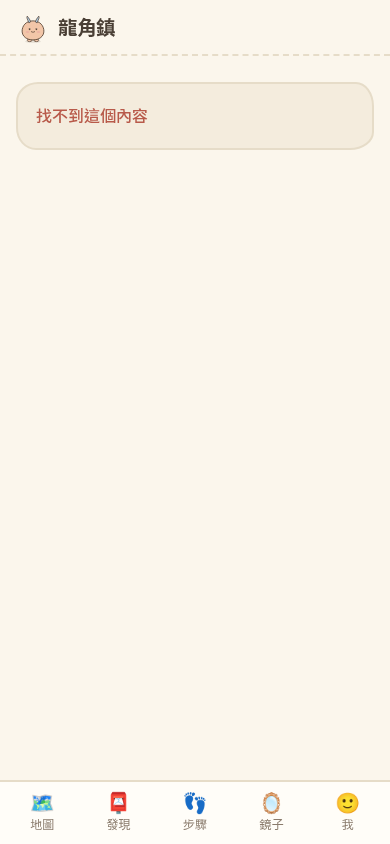
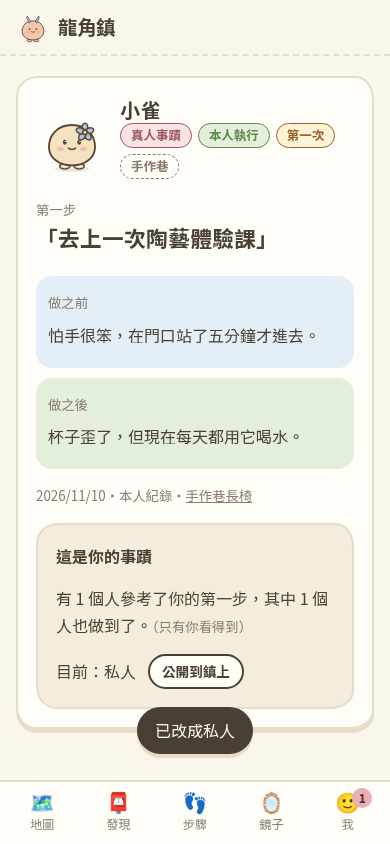
fix(P1-2 UAT-03): reveal and highlight the completed step with its deed link

diff --git a/apps/web/src/pages/Steps.tsx b/apps/web/src/pages/Steps.tsx
@@ -1,4 +1,4 @@
-import { useState, type FormEvent } from "react";
+import { useEffect, useRef, useState, type FormEvent } from "react";
 import { Link } from "react-router-dom";
 import { Empty, ErrorBox, ExecutorTag, Loading } from "../components/Bits";
 import { api } from "../lib/api";
@@ -79,9 +79,11 @@ function CompleteForm({ step, onDone }: { step: Step; onDone(): void }) {
   );
 }
 
-function StepItem({ step, reload }: { step: Step; reload(): void }) {
+function StepItem({ step, reload, onCompleted, highlighted }: { step: Step; reload(): void; onCompleted(id: string): void; highlighted: boolean }) {
   const { toast, reload: reloadMe } = useSession();
   const [completing, setCompleting] = useState(false);
+  const completedCard = useRef<HTMLElement>(null);
+  useEffect(() => { if (highlighted) completedCard.current?.scrollIntoView({ block: "start" }); }, [highlighted]);
   const act = async (path: string, msg: string) => {
     await api(`/api/first-steps/${step.id}/${path}`, { method: "POST" });
     toast(msg);
@@ -91,7 +93,8 @@ function StepItem({ step, reload }: { step: Step; reload(): void }) {
   const when = step.session?.startsAt ?? step.plannedAt;
   return (
     <li>
-      <article className="panel stack" style={{ gap: 10 }}>
+      <article ref={completedCard} className={`panel stack ${highlighted ? "just-completed" : ""}`} style={{ gap: 10 }}>
+        {highlighted && <strong className="notice">剛剛完成的這一步</strong>}
         <div className="row wrap" style={{ gap: 6 }}>
           <ExecutorTag executor={step.executor} />
           {step.proposedBy === "ai" && <span className="tag tag-ai">AI 建議</span>}
@@ -127,7 +130,7 @@ function StepItem({ step, reload }: { step: Step; reload(): void }) {
           {step.status === "confirmed" && <button className="btn ghost small" onClick={() => act("drop", "先放下也沒關係")}>先放下</button>}
           {step.status === "done" && step.deedId && <Link className="btn small" to={`/deeds/${step.deedId}`}>看看這個事蹟</Link>}
         </div>
-        {completing && <CompleteForm step={step} onDone={() => { setCompleting(false); toast("太好了！這成為你的新事蹟"); reload(); }} />}
+        {completing && <CompleteForm step={step} onDone={() => { setCompleting(false); toast("太好了！這成為你的新事蹟"); onCompleted(step.id); void reloadMe(); }} />}
       </article>
     </li>
   );
@@ -135,6 +138,7 @@ function StepItem({ step, reload }: { step: Step; reload(): void }) {
 
 export function StepsPage() {
   const [tab, setTab] = useState<Tab>("confirmed");
+  const [completedId, setCompletedId] = useState<string | null>(null);
   const { data, error, loading, reload } = useFetch<Step[]>("/api/first-steps");
   const list = (data ?? []).filter((s) => s.status === tab);
   const count = (t: Tab) => (data ?? []).filter((s) => s.status === t).length;
@@ -152,7 +156,7 @@ export function StepsPage() {
         ))}
       </div>
       <ErrorBox error={error} />
-      {loading && !data ? <Loading /> : list.length ? <ul className="plain">{list.map((s) => <StepItem key={s.id} step={s} reload={reload} />)}</ul> : (
+      {loading && !data ? <Loading /> : list.length ? <ul className="plain">{list.map((s) => <StepItem key={s.id} step={s} reload={reload} highlighted={s.id === completedId} onCompleted={(id) => { setCompletedId(id); setTab("done"); reload(); }} />)}</ul> : (
         <Empty>
           {tab === "draft" ? "AI 角色還沒有建議。" : tab === "confirmed" ? <>沒有進行中的步驟。去<Link to="/">地圖</Link>看看大家的第一步吧。</> : "還沒有完成的步驟。每一步都可以很小。"}
         </Empty>

diff --git a/e2e/p1-2.spec.ts b/e2e/p1-2.spec.ts
@@ -1,0 +1,20 @@
+import { expect } from "@playwright/test";
+import { test } from "./helpers";
+import { evidence, json } from "./helpers";
+
+test("UAT-03 P1-2 完成後立刻看得到剛完成的步驟與事蹟", async ({ page }) => {
+  await json(page.request.post("/api/auth/dev-login", { data: { email: "complete@e2e.test" } }));
+  await json(page.request.post("/api/first-steps", { data: { executor: "self", text: "第一次試著唱一首歌" } }));
+  await page.goto("/steps");
+  await page.getByRole("button", { name: "我做到了", exact: true }).click();
+  await page.getByRole("button", { name: "完成", exact: true }).click();
+  await expect(page.getByRole("heading", { name: "「第一次試著唱一首歌」" })).toBeVisible({ timeout: 3000 });
+  const link = page.getByRole("link", { name: "看看這個事蹟" });
+  await expect(link).toBeVisible({ timeout: 3000 });
+  await expect(link).toBeInViewport();
+  await expect(page.getByRole("tab", { name: /完成了/ })).toHaveAttribute("aria-selected", "true");
+  await evidence(page, "UAT-03-completed-step");
+  await link.click();
+  await expect(page).toHaveURL(/\/deeds\/deed_/);
+  await expect(page.getByRole("heading", { name: "「第一次試著唱一首歌」" })).toBeVisible();
+});

diff --git a/apps/web/src/styles.css b/apps/web/src/styles.css
@@ -224,3 +224,5 @@ table { width: 100%; border-collapse: collapse; }
 td, th { text-align: left; padding: 6px 8px; border-bottom: 1px dashed var(--line); vertical-align: top; }
 .toast { position: fixed; left: 50%; bottom: 90px; transform: translateX(-50%); background: var(--ink); color: var(--paper); padding: 10px 18px; border-radius: 999px; z-index: 50; box-shadow: var(--shadow); }
 .sr-only { position: absolute; width: 1px; height: 1px; overflow: hidden; clip: rect(0 0 0 0); white-space: nowrap; }
+
+.just-completed { border-color: var(--leaf); scroll-margin-top: 84px; }

diff --git a/docs/uat/UAT-RESULTS.md b/docs/uat/UAT-RESULTS.md
@@ -11,3 +11,5 @@
 - 2026-11-10 00:41：P2-7 / UAT-01、12、13：測試基礎已完成；原人物情境桌面＋手機 6/6 pass，新手閉環因 P2-2/P2-3 暫 fixme 2；基準單元 100/100、typecheck 0 錯誤。證據 evidence/{desktop,mobile}-{leo,mia,xiaoan}-*.png；p2-7-e2e.log。
 
 - 2026-11-10 00:53：P1-1 / UAT-02 已修：config 未到不顯示 Google；未設定 client 導回中文說明且保留 next。TDD：後端 red 1/12、閃現 red 1 按鈕→green；雙裝置 E2E 2/2、全單元 101/101。證據 evidence/*-UAT-02-google-unavailable.png、p1-1-{red,green}-*.log。P2-7 commits b3d7f01、6186d19。
+
+- 2026-11-10 00:54：P1-2 / UAT-03 已修：完成後切完成了分頁、標記並捲到剛完成項目，保留看看這個事蹟。TDD red 兩裝置連結不存在→green；完成回歸＋原 Mia 雙裝置 4/4、全單元 101/101。證據 evidence/*-UAT-03-completed-step.png。P1-1 commit be41ef9。
